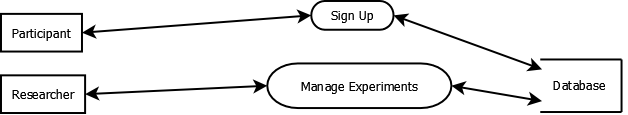
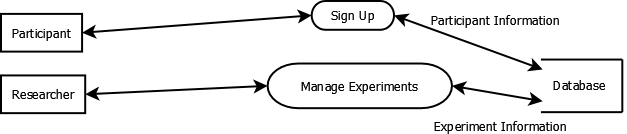
Rework DFD

Changed region(s): [[0.0, 0.0, 1.0, 1.0]]

diff --git a/milestones/parts/dfds.tex b/milestones/parts/dfds.tex
@@ -13,7 +13,7 @@ In the proposed system, the researcher will manage experiments via an computer d
 
 \subsection{Proposed System Level 0 Data Flow Diagram}
 \includegraphics[width=6in]{../other/data-flow-diagrams/new_system_level_0.png}\\
-Now, in the level 0 diagram, creating and experiment and modifiying an experiment are explicitly different, but both have data being stored on the computer data base.  The participant now browses the experiment and then signs up, instead of the two being combined.  The data entered by the participant will be saved on the data base.  Another actor, the administrator, will have the ability to add a researcher or modifiy a researcher.  All of the data about the researchers will be placed on the computer data base.
+Now, in the level 0 diagram, creating and experiment and modifiying an experiment are explicitly different (modifiying an experiment includes deletion of an experiment), but both have data being stored on the computer data base.  The participant now browses the experiment and then signs up, instead of the two being combined.  The data entered by the participant will be saved on the data base.  Another actor, the administrator, will have the ability to add a researcher or modifiy a researcher, which includes deleting a researcher.  All of the data about the researchers will be placed on the computer data base.
 
 \subsection{Proposed System Level 1 Data Flow Diagram for Sign up}
 \includegraphics[width=6in]{../other/data-flow-diagrams/new_system_level_21.png}
